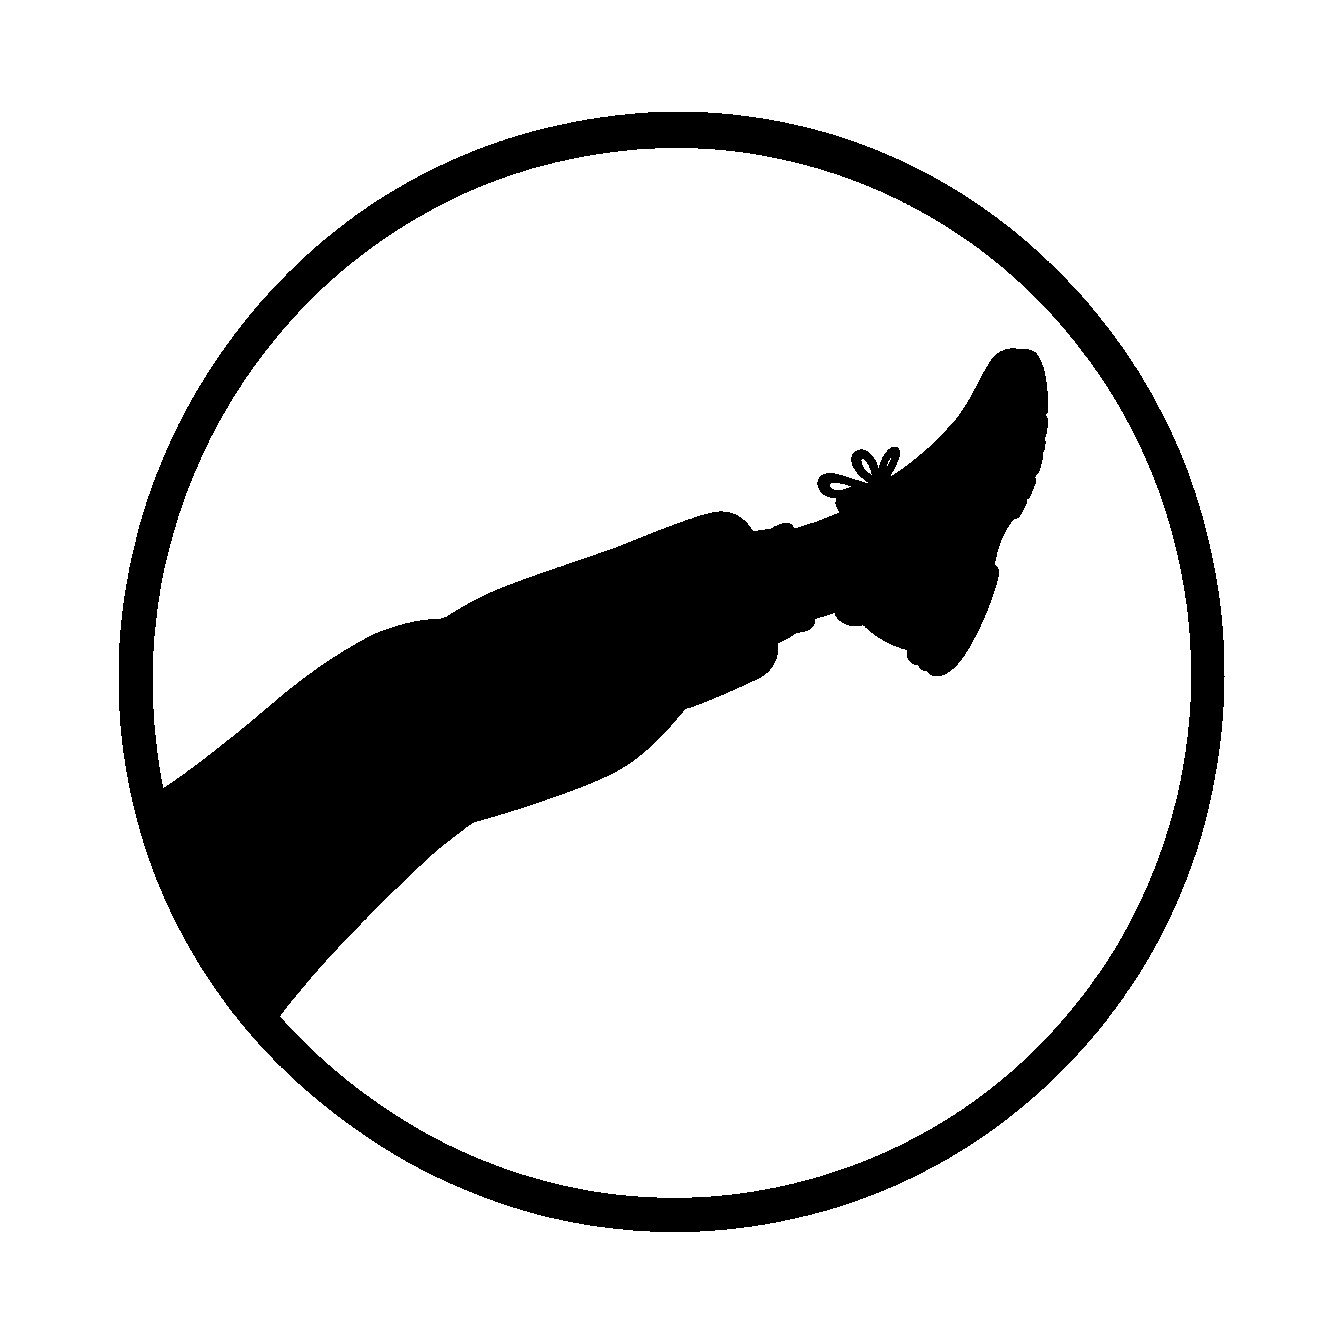
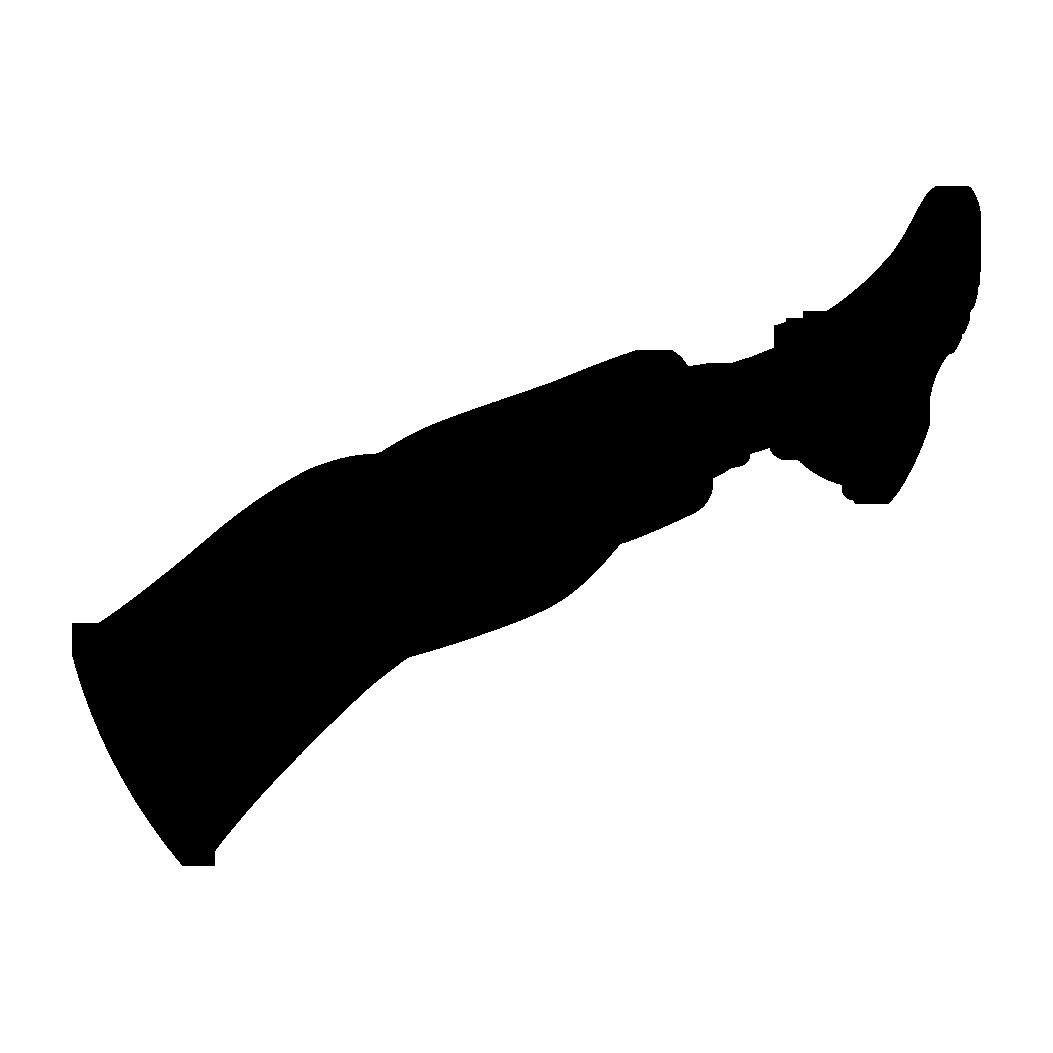
feat(touch): 蹴り・ナイフボタンにアイコンを適用（外枠の円を除去）

Changed region(s): [[0.0608, 0.0608, 0.9421, 0.9421]]

diff --git a/src/TouchControls.ts b/src/TouchControls.ts
@@ -1022,6 +1022,38 @@ export class TouchControls {
         -webkit-mask: url(/icon_jump.png) center / contain no-repeat;
         mask: url(/icon_jump.png) center / contain no-repeat;
       }
+      /* 蹴りボタンは脚（キック）シルエットを表示する。文字「蹴り」は隠す。 */
+      #touch-root .tc-btn[data-action="kick"] {
+        font-size: 0;
+      }
+      #touch-root .tc-btn[data-action="kick"]::before {
+        content: "";
+        position: absolute;
+        left: 50%;
+        top: 50%;
+        width: 82%;
+        height: 82%;
+        transform: translate(-50%, -50%);
+        background: currentColor;
+        -webkit-mask: url(/icon_kick.png) center / contain no-repeat;
+        mask: url(/icon_kick.png) center / contain no-repeat;
+      }
+      /* ナイフボタンはナイフのシルエットを表示する。文字「ナイフ」は隠す。 */
+      #touch-root .tc-btn[data-action="knife"] {
+        font-size: 0;
+      }
+      #touch-root .tc-btn[data-action="knife"]::before {
+        content: "";
+        position: absolute;
+        left: 50%;
+        top: 50%;
+        width: 80%;
+        height: 80%;
+        transform: translate(-50%, -50%);
+        background: currentColor;
+        -webkit-mask: url(/icon_knife.png) center / contain no-repeat;
+        mask: url(/icon_knife.png) center / contain no-repeat;
+      }
       #touch-root .tc-controls.editing .tc-btn,
       #touch-root .tc-controls.editing .tc-joy {
         border-style: dashed;